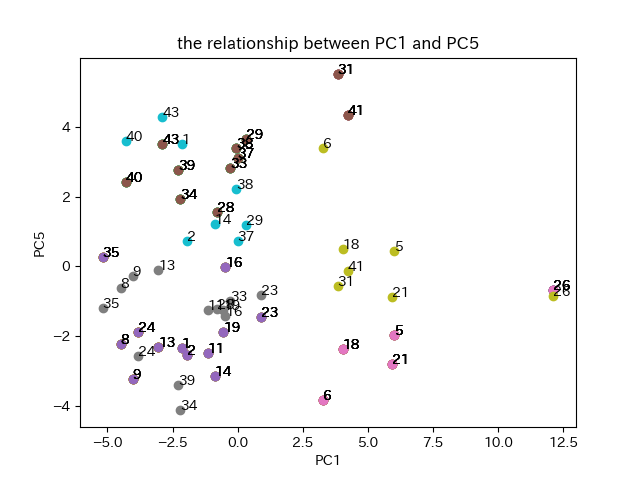
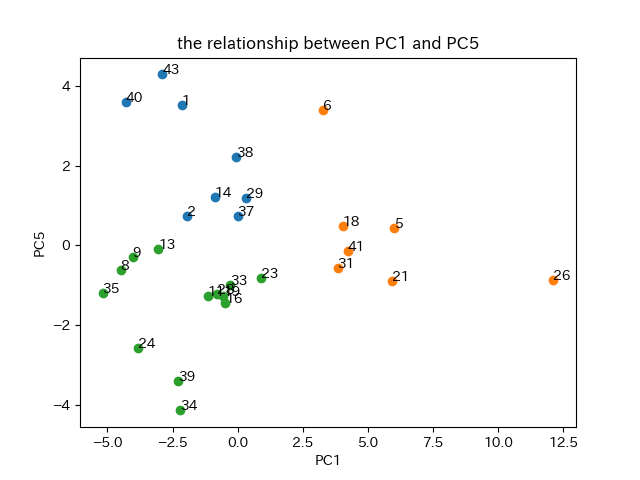
色付けできた　前回のグラフが残って重複してた

diff --git a/class.py b/class.py
@@ -41,6 +41,7 @@ def gui(score:pd.DataFrame, df:pd.DataFrame):
 
 # K-means 
 def k_means(df:pd.DataFrame, score:pd.DataFrame, pc1:str, pc2:str, n:int):
+    plt.clf()
     print(f" *****pc1:{pc1} pc2:{pc2} cluster:{n}***** ")
     
     # 街路番号抽出してscoreのインデックスへ
